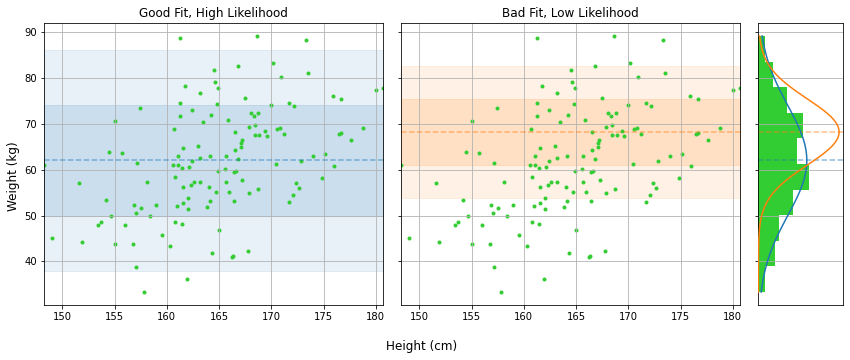
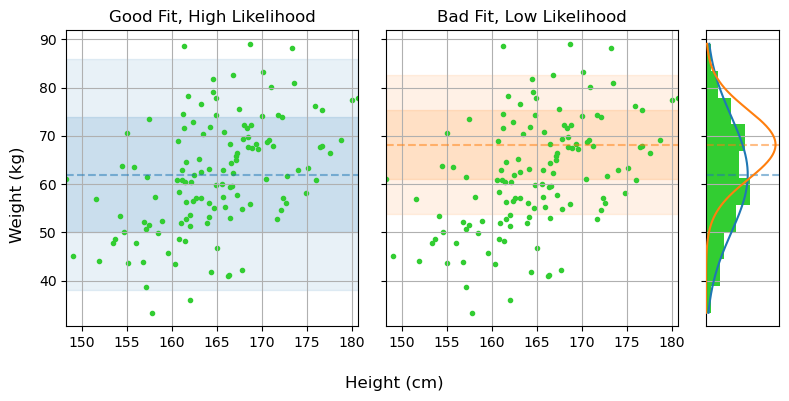
autocommit

diff --git a/blog/03_stats/06_bayesics/Bayes_Work.md b/blog/03_stats/06_bayesics/Bayes_Work.md
@@ -5,7 +5,6 @@ import matplotlib.pyplot as plt
 from chainconsumer import ChainConsumer
 
 from scipy import stats
-
 ```
 
 # The Bayes-Sics
@@ -43,7 +42,7 @@ H, W  = np.random.multivariate_normal(mean = np.array([hav,wav]), cov=COVAR, siz
 
 #--------------------
 
-f, (a1,a2) = plt.subplots(1,2, figsize=(12,5), sharex=True, sharey=True)
+f, (a1,a2) = plt.subplots(1,2, figsize=(8,5), sharex=True, sharey=True)
 for a in (a1,a2):
     a.scatter(H,W, marker='.', c='limegreen')
     a.grid()
@@ -167,7 +166,7 @@ H, W  = np.random.multivariate_normal(mean = np.array([hav,wav]), cov=COVAR, siz
 
 #--------------------
 
-f, (a1,a2) = plt.subplots(1,2, figsize=(12,5), sharex=True, sharey=True)
+f, (a1,a2) = plt.subplots(1,2, figsize=(8,4), sharex=True, sharey=True)
 for a in (a1,a2):
     a.grid()
     a.axhline(0, ls='--', c='k', zorder=-1)
@@ -283,7 +282,7 @@ $$
 
 ```python
 # REDACT
-f, (a1,a2,a3) = plt.subplots(1,3, figsize=(12,5), sharex=False, sharey=True, gridspec_kw={'width_ratios': [1, 1, 0.25]})
+f, (a1,a2,a3) = plt.subplots(1,3, figsize=(8,4), sharex=False, sharey=True, gridspec_kw={'width_ratios': [1, 1, 0.25]})
 
 f.supxlabel("Height (cm)" ), f.supylabel("Weight (kg)")
 
@@ -370,7 +369,7 @@ MU, SIG = np.linspace(50,100,512), np.linspace(5,50,256)
 density = np.zeros([len(MU),len(SIG)])
 for i in range(len(MU)):
     for j in range(len(SIG)):
-        mu, sig = MU[i], SIG[j]
+        mu, sig = MU[i], SIG[j] 
         density[i,j] = np.log(prior_one(mu,sig)) + log_likelihood_one(H,W,mu,sig)
 
 #----------------------------------------------
@@ -386,7 +385,7 @@ a1.grid(alpha=0.25), a2.grid(alpha=0.25)
 plt.show()
 ```
 
-    /tmp/ipykernel_21628/2687195259.py:8: RuntimeWarning: divide by zero encountered in log
+    /tmp/ipykernel_22098/1085907503.py:8: RuntimeWarning: divide by zero encountered in log
       density[i,j] = np.log(prior_one(mu,sig)) + log_likelihood_one(H,W,mu,sig)
 
 
@@ -460,7 +459,7 @@ $$
 
 ```python
 # REDACT
-f, (a1,a2) = plt.subplots(1,2, figsize=(12,6), sharex=False, sharey=True)
+f, (a1,a2) = plt.subplots(1,2, figsize=(8,4), sharex=False, sharey=True)
 
 f.supxlabel("Height (cm)" ), f.supylabel("Weight (kg)")
 
@@ -558,8 +557,8 @@ print("Done!")
 ```
 
     Starting run!
-    CPU times: user 8.8 s, sys: 1.14 ms, total: 8.8 s
-    Wall time: 8.8 s
+    CPU times: user 7.8 s, sys: 9.9 ms, total: 7.81 s
+    Wall time: 7.81 s
     Done!
 
 

diff --git a/blog/03_stats/06_bayesics/page.md b/blog/03_stats/06_bayesics/page.md
@@ -400,8 +400,8 @@ print("Done!")
 ```  
   
     Starting run!  
-    CPU times: user 8.8 s, sys: 1.14 ms, total: 8.8 s  
-    Wall time: 8.8 s  
+    CPU times: user 7.8 s, sys: 9.9 ms, total: 7.81 s  
+    Wall time: 7.81 s  
     Done!  
   
   
